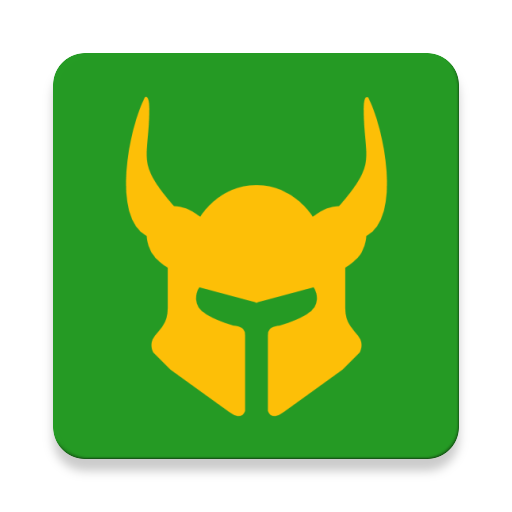
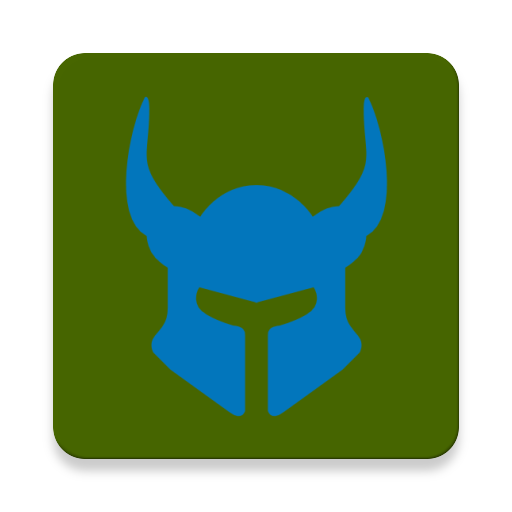
More Kotlin Migrations, and Color adjustments
- Changed color theme of app to get rid of Yellow accent (and also find a more unique and pleasing color Palette).

- More Kotlin conversions (super close to being 100% K - yeah!)

- Adjusted adaptive icon to match newer color theme

diff --git a/app/src/main/java/com/designdemo/uaha/net/FonoApiFactory.kt b/app/src/main/java/com/designdemo/uaha/net/FonoApiFactory.kt
@@ -10,7 +10,7 @@ class FonoApiFactory {
     @JvmOverloads
     fun create(okHttpClient: OkHttpClient? = null): FonoApiService = run {
         val retrofitBuilder = Retrofit.Builder()
-                .baseUrl("https://fonoapi.freshpixl.com/")
+                .baseUrl(baseUrlFono)
                 .addConverterFactory(GsonConverterFactory.create())
 
         okHttpClient?.let {
@@ -18,6 +18,10 @@ class FonoApiFactory {
         }
 
         retrofitBuilder.build().create(FonoApiService::class.java)
+    }
+
+    companion object {
+        val baseUrlFono = "https://fonoapi.freshpixl.com/"
     }
 
 }

diff --git a/app/src/main/java/com/designdemo/uaha/ui/MainActivity.kt b/app/src/main/java/com/designdemo/uaha/ui/MainActivity.kt
@@ -17,13 +17,11 @@ import androidx.fragment.app.FragmentPagerAdapter
 import androidx.core.view.GravityCompat
 import androidx.viewpager.widget.ViewPager
 import androidx.drawerlayout.widget.DrawerLayout
-import androidx.appcompat.app.ActionBar
 import androidx.appcompat.app.AppCompatActivity
 
 import android.view.Menu
 import android.view.MenuItem
 
-import com.support.android.designlibdemo.BottomNavActivity
 import com.support.android.designlibdemo.R
 
 import java.util.ArrayList

diff --git a/app/src/main/java/com/designdemo/uaha/ui/BottomNavActivity.kt b/app/src/main/java/com/designdemo/uaha/ui/BottomNavActivity.kt
@@ -1,8 +1,9 @@
-package com.support.android.designlibdemo
+package com.designdemo.uaha.ui
 
 import android.os.Bundle
 import com.google.android.material.bottomnavigation.BottomNavigationView
 import androidx.appcompat.app.AppCompatActivity
+import com.support.android.designlibdemo.R
 import kotlinx.android.synthetic.main.activity_bottom_nav.*
 
 class BottomNavActivity : AppCompatActivity() {

diff --git a/app/src/androidTest/java/com/designdemo/uaha/ui/DetailActivityTest.java b/app/src/androidTest/java/com/designdemo/uaha/ui/DetailActivityTest.java
@@ -40,10 +40,10 @@ public class DetailActivityTest  {
                 }
             };
 
-//    @Test
-//    public void detailViewTest() {
-//        onView(withId(R.id.favorite_title)).check(matches(withText("Favorite")));
-//    }
+    @Test
+    public void detailViewTest() {
+        onView(withId(R.id.toolbar)).check(matches(withText("Gingerbread")));
+    }
 
 //    @Test
 //    public void fabInteractTest() {
